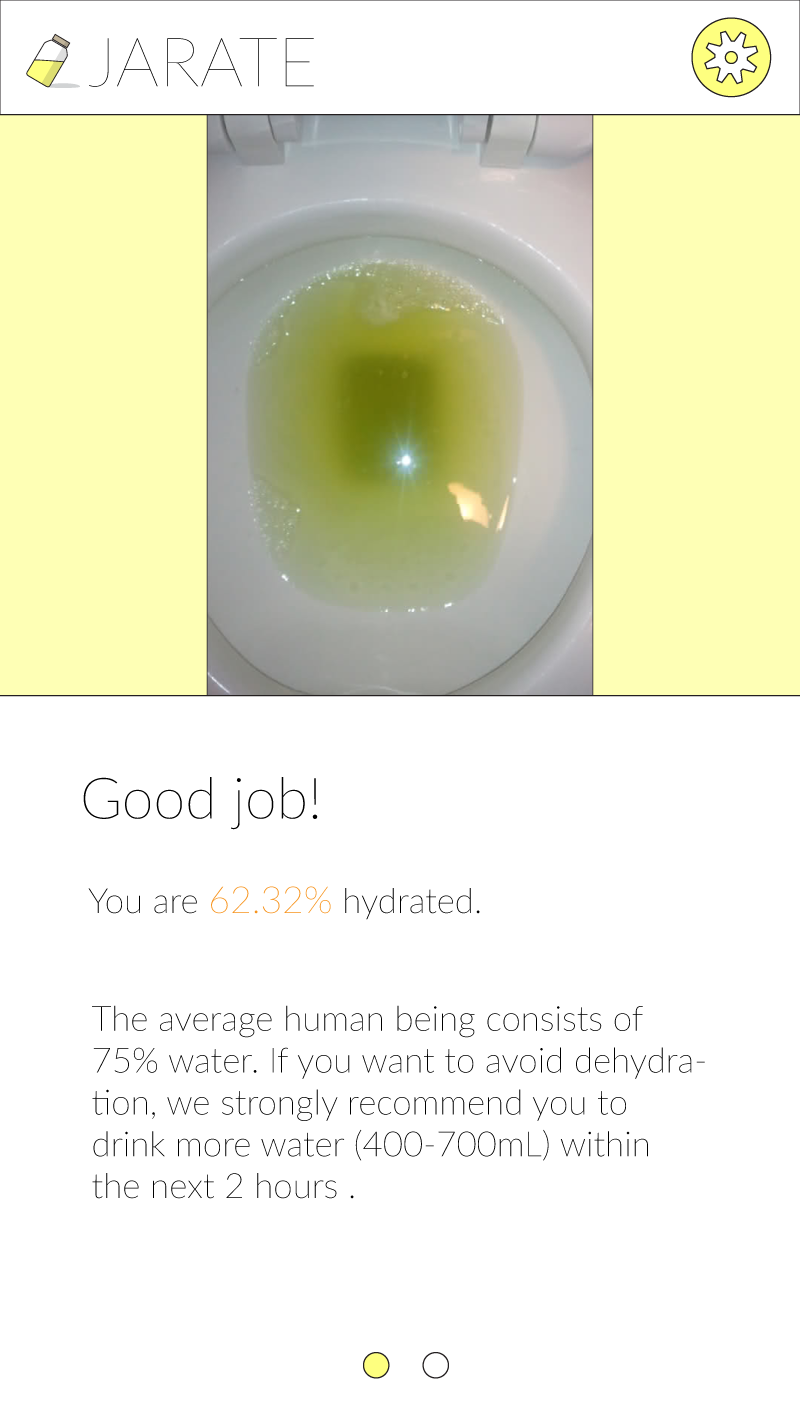
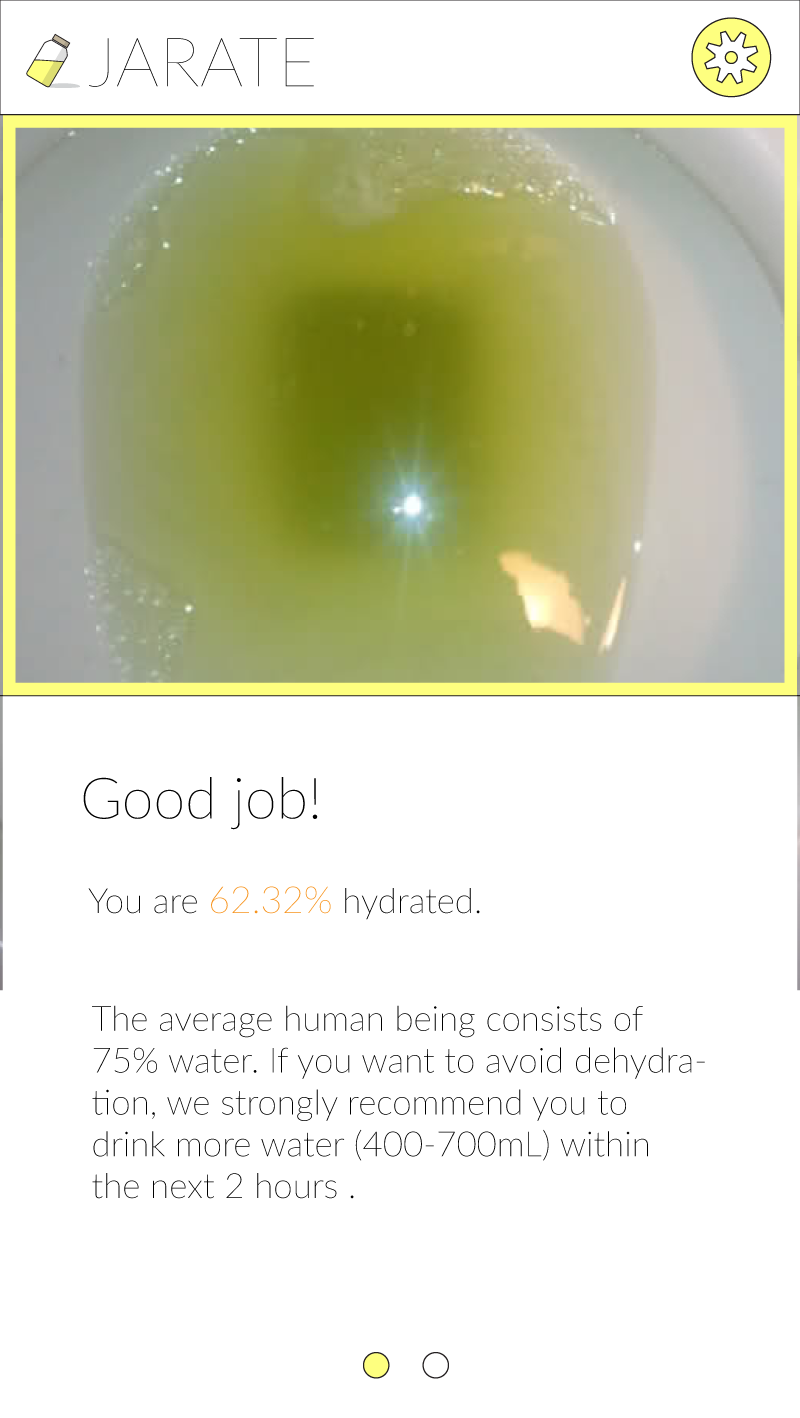
Feedback page improved

diff --git a/chart.js b/chart.js
@@ -1,0 +1,21 @@
+var data = {
+    labels: ["January", "February", "March", "April", "May", "June", "July"],
+    datasets: [
+        {
+            label: "My First dataset",
+            fillColor: "rgba(220,220,220,0.5)",
+            strokeColor: "rgba(220,220,220,0.8)",
+            highlightFill: "rgba(220,220,220,0.75)",
+            highlightStroke: "rgba(220,220,220,1)",
+            data: [65, 59, 80, 81, 56, 55, 40]
+        },
+        {
+            label: "My Second dataset",
+            fillColor: "rgba(151,187,205,0.5)",
+            strokeColor: "rgba(151,187,205,0.8)",
+            highlightFill: "rgba(151,187,205,0.75)",
+            highlightStroke: "rgba(151,187,205,1)",
+            data: [28, 48, 40, 19, 86, 27, 90]
+        }
+    ]
+};
